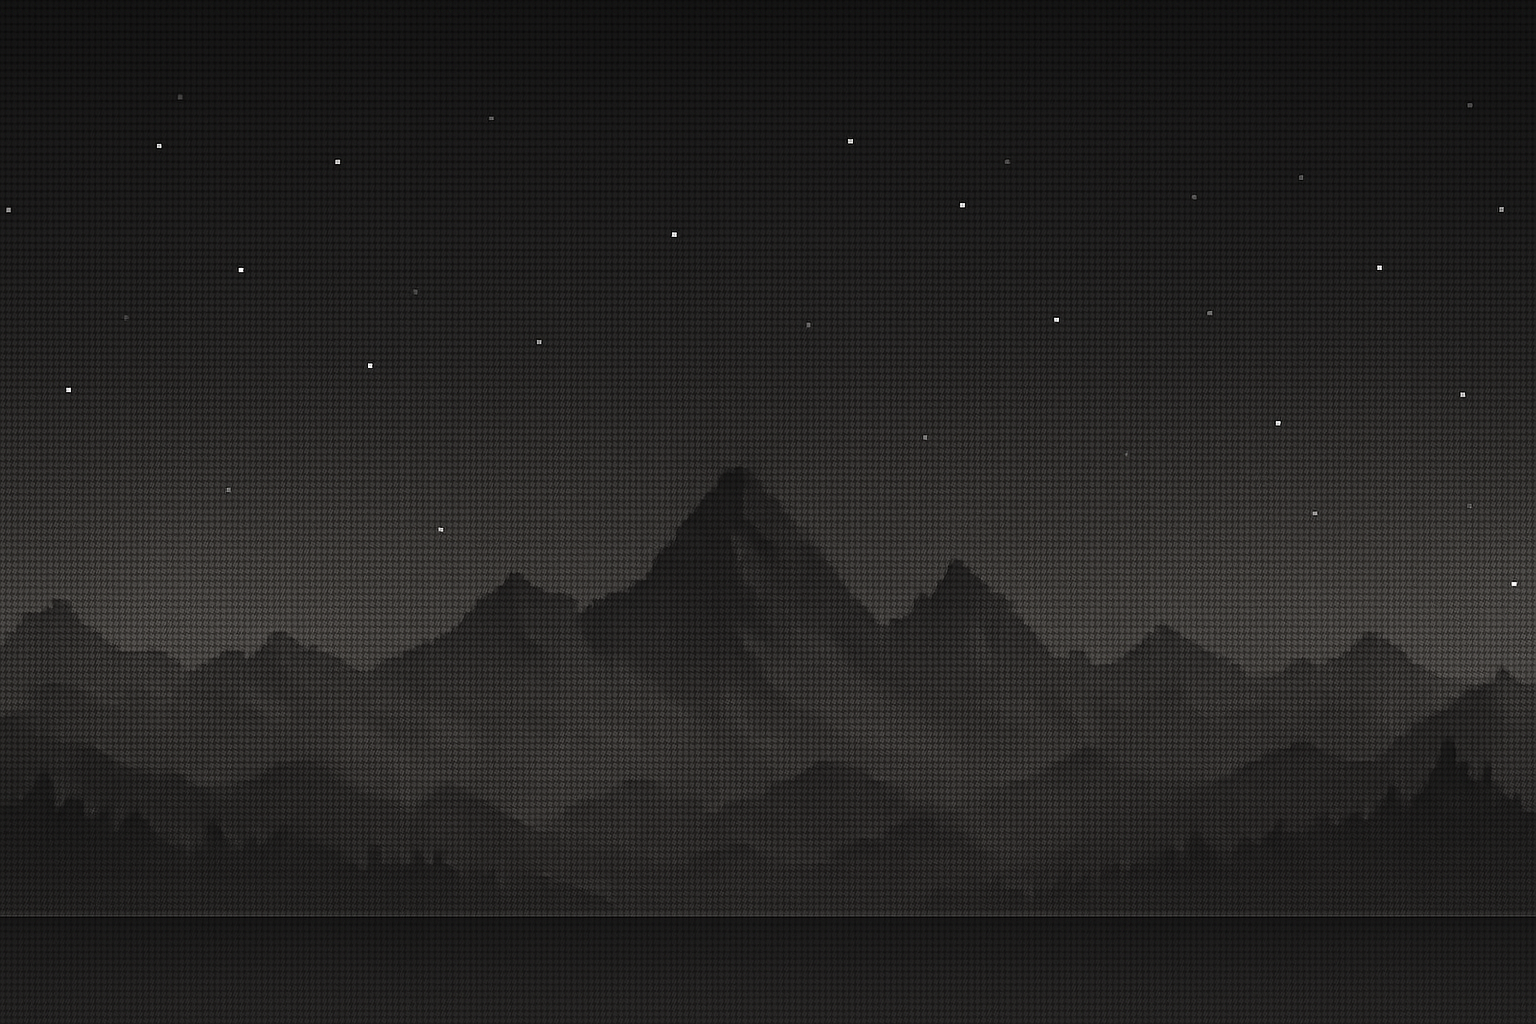
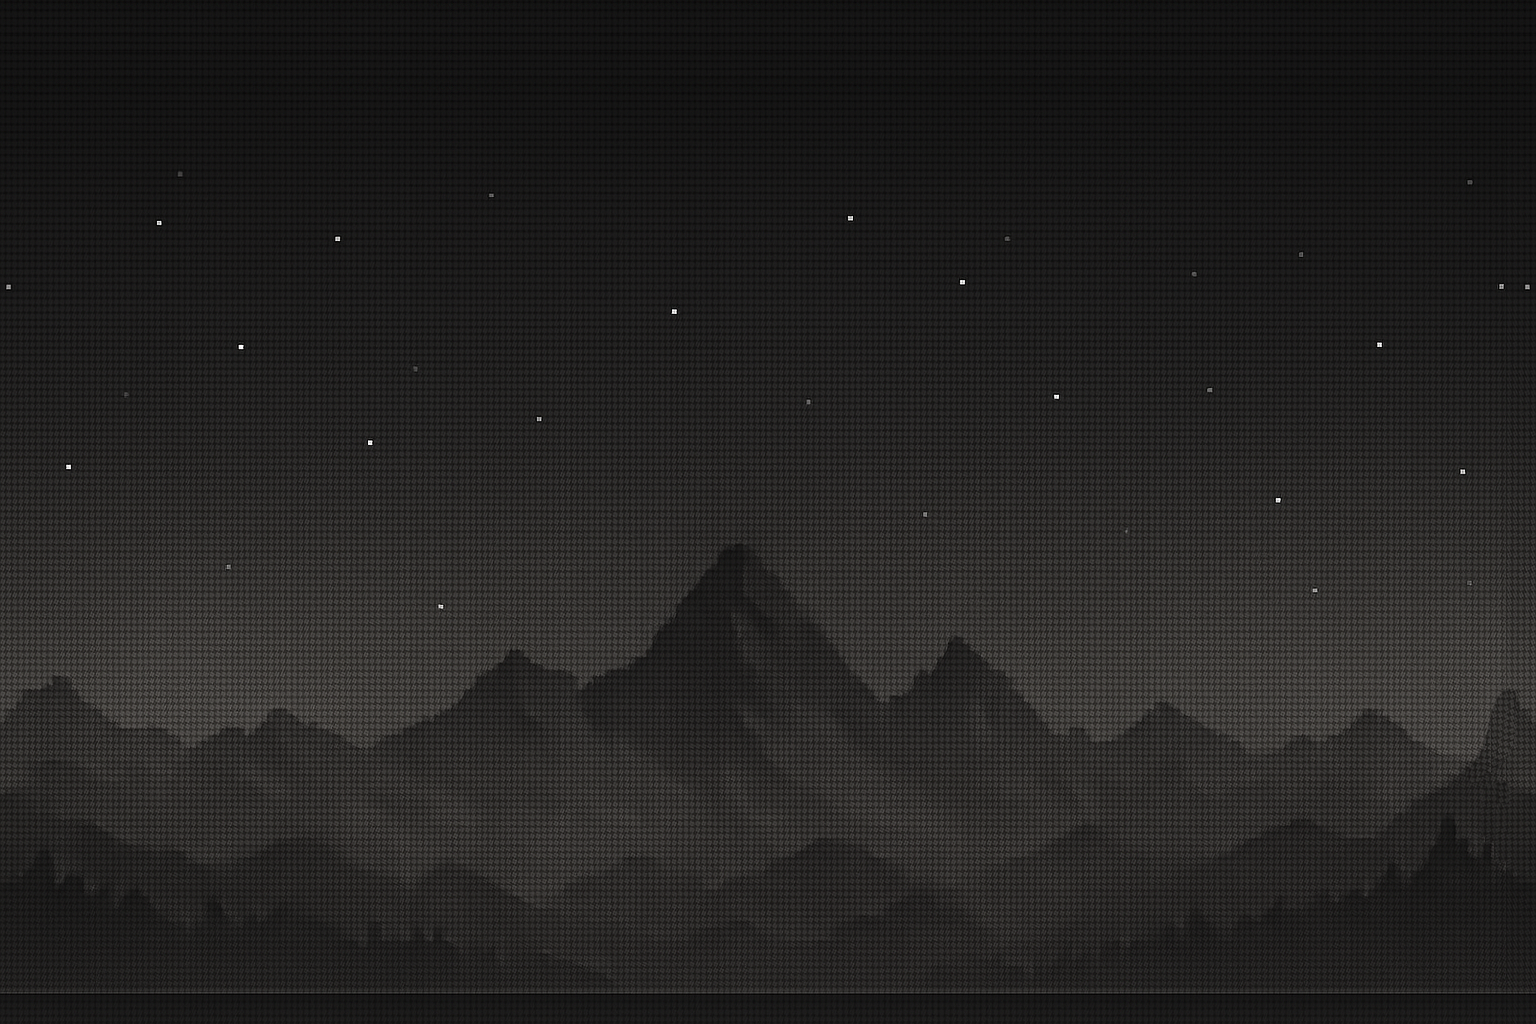
post processing ui option + fixed mountains to loop better + launch firework on click position

diff --git a/js/game/FireworkGame.js b/js/game/FireworkGame.js
@@ -32,6 +32,8 @@ class FireworkGame {
 
         this.cameraTransitionSpeed = 2.0;
 
+        this.usePostProcessing = JSON.parse(localStorage.getItem('usePostProcessing') || 'false');
+
         this.init();
     }
 
@@ -122,7 +124,7 @@ class FireworkGame {
     initRenderer2D() {
         this.canvas2D = document.getElementById('game-canvas');
         this.renderer2D = new Renderer2D.Renderer2D(this.canvas2D, {
-
+            usePostProcessing: this.usePostProcessing,
         });
         this.renderer2D._resizeIfNeeded();
 
@@ -462,7 +464,7 @@ class FireworkGame {
     }
 
     // dont use every frame because js is weird 
-    launchFireworkAt(x, minY = null, recipeComponents = null, trailEffect = null) {
+    launchFireworkAt(x, targetY = null, minY = null,  recipeComponents = null, trailEffect = null) {
         const components = recipeComponents || this.currentRecipeComponents;
 
         if (components.length === 0) {
@@ -474,15 +476,15 @@ class FireworkGame {
         const y = minY || viewBottomWorldY + GAME_BOUNDS.OFFSET_MIN_Y;
         const effect = trailEffect || this.currentTrailEffect;
 
-        this.launch(x + (Math.random() - 0.5) * FIREWORK_CONFIG.autoLauncherMeshWidth, y + FIREWORK_CONFIG.autoLauncherMeshHeight / 2, components, effect);
+        this.launch(x + (Math.random() - 0.5) * FIREWORK_CONFIG.autoLauncherMeshWidth, y + FIREWORK_CONFIG.autoLauncherMeshHeight / 2, components, effect, Math.max(targetY, minY));
         this.fireworkCount++;
         this.addSparkles(1);
         this.updateUI();
     }
 
     // dont use every frame because js is weird 
-    launch(x, y, components, trailEffect) {
-        const firework = new Firework(x, y, components, this.renderer2D, this.renderer2D.virtualHeight / this.renderer2D.cameraZoom, trailEffect, this.particleSystem);
+    launch(x, y, components, trailEffect, targetY = null) {
+        const firework = new Firework(x, y, components, this.renderer2D, this.renderer2D.virtualHeight / this.renderer2D.cameraZoom, trailEffect, this.particleSystem, targetY);
         this.gameState.fireworks.push(firework);
     }
 
@@ -601,8 +603,8 @@ class FireworkGame {
         this.recipes = [];
         this.currentTrailEffect = 'fade';
         this.currentRecipeComponents = [...DEFAULT_RECIPE_COMPONENTS];
-        this.currentBackground = BACKGROUND_IMAGES[0].name;
-        
+
+
         this.resourceManager.reset();
 
         if (this.gameState.fireworks) {
@@ -1192,6 +1194,30 @@ class FireworkGame {
         localStorage.setItem('currentBackground', path);
         this.updateBackgroundMesh();
         this.ui.updateBackgroundPicker();
+    }
+
+    togglePostProcessing(enabled) {
+        const usePP = !!enabled;
+
+        if (this.renderer2D.usePostProcessing === usePP) {
+            return;
+        }
+
+        this.renderer2D.usePostProcessing = usePP;
+
+        if (usePP) {
+            if (!this.renderer2D.postProcessingInitialized) {
+                try {
+                    this.renderer2D._initPostProcessing();
+                    this.renderer2D._resizePostProcessingBuffers();
+                } catch (err) {
+                    console.warn('Failed to initialize post-processing:', err);
+                    this.renderer2D.usePostProcessing = false;
+                }
+            }
+        }
+
+        localStorage.setItem('usePostProcessing', JSON.stringify(usePP));
     }
 }
 

diff --git a/js/ui/UIManager.js b/js/ui/UIManager.js
@@ -182,6 +182,13 @@ class UIManager {
             }
         });
 
+        const ppToggle = document.getElementById('toggle-post-processing');
+        if (ppToggle) {
+            ppToggle.checked = !!this.game.renderer2D.usePostProcessing;
+            ppToggle.addEventListener('change', (e) => {
+                this.game.togglePostProcessing(e.target.checked);
+            });
+        }
 
         document.addEventListener('wheel', this.handleWheelScroll, { passive: false });
 
@@ -316,7 +323,7 @@ class UIManager {
                 if (deltaX < 20 && !this.game.isClickInsideUI(e)) {
                     const worldPos = this.game.screenToWorld(e.clientX, e.clientY);
                     for (let i = 0; i < 1; i++) {
-                        this.game.launchFireworkAt(worldPos.x);
+                        this.game.launchFireworkAt(worldPos.x,  worldPos.y);
                     }
                 }
                 document.body.style.cursor = 'default';

diff --git a/index.html b/index.html
@@ -162,6 +162,10 @@
             </div>
             <button id="load-progress">Load Progress</button>
             <br>
+            <div class="recipes-option">
+                <label><input type="checkbox" id="toggle-post-processing"> Enable Post-Processing</label>
+            </div>
+            <br>
             <button id="reset-launchers" class="danger-button">Reset All Auto-Launchers</button>
             <br>
             <button id="reset-game" class="danger-button">Reset Everything</button>
